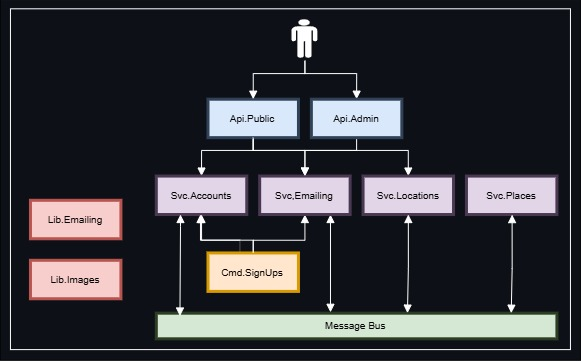
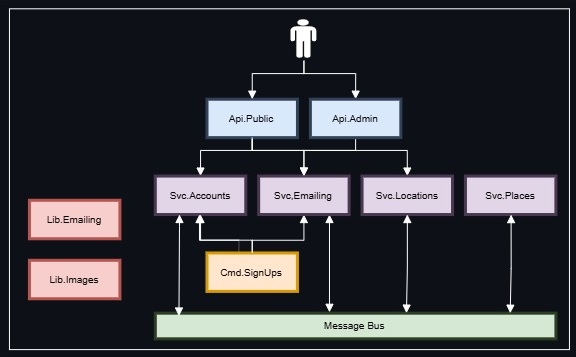
Improve Applications architecture diagram (#9)

Changed region(s): [[0.0, 0.0, 1.0, 1.0]]

diff --git a/README.md b/README.md
@@ -33,5 +33,5 @@ illustrates how the individual applications integrate to form a complete distrib
 Each application contains its own documentation describing its responsibilities, dependencies, configuration, and available endpoints. Together they provide a reference implementation that 
 can be used as a foundation for new projects, as learning material for microservice architecture, or as reusable templates for rapidly building production-ready systems.
 
-#### Application Architecture
-![Nano Application Architecture](https://raw.githubusercontent.com/Nano-Core/Nano.Templates/refs/heads/master/.assets/Nano-Template-Architecture.jpg)
+#### Applications Architecture
+![Nano Applications Architecture](https://raw.githubusercontent.com/Nano-Core/Nano.Templates/refs/heads/master/.assets/Nano-Template-Architecture.jpg)
